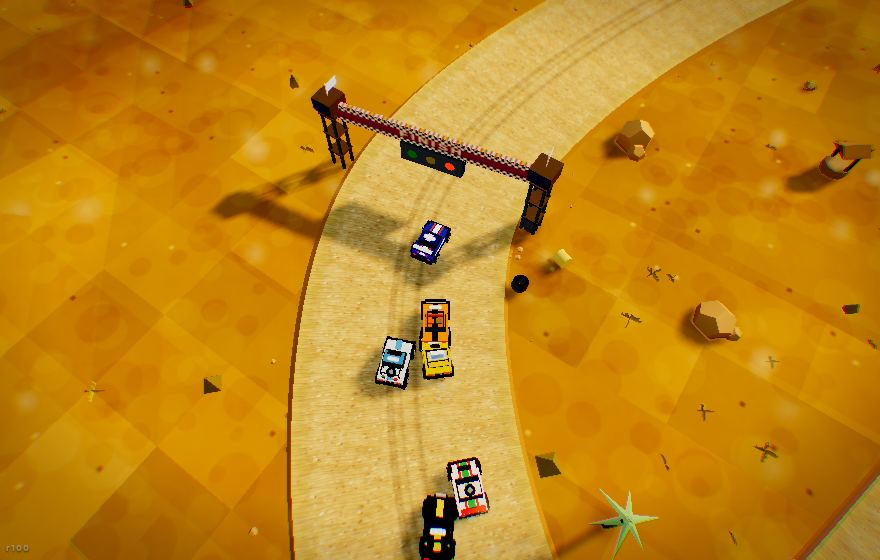
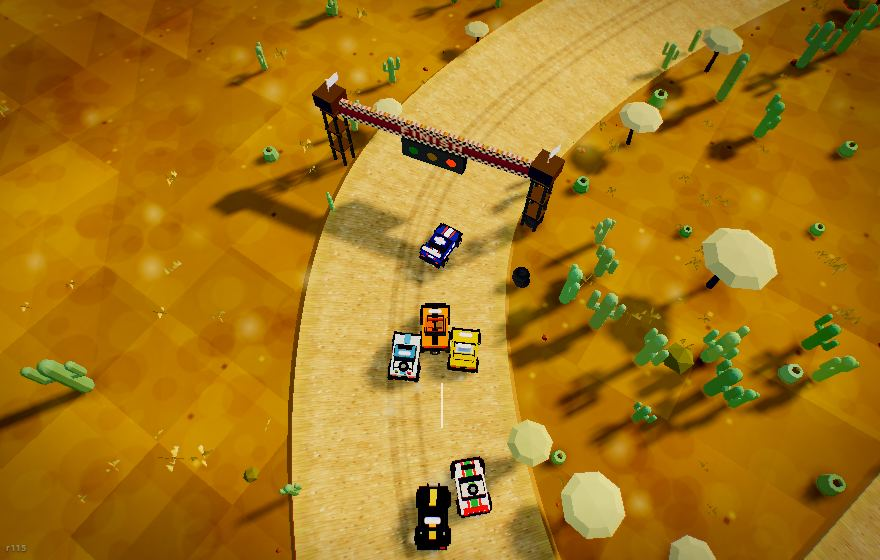
Three of the weakest eight: Safari, Deepwood and the Dune Serpent
SAFARI PLAINS shared the `dunes` theme with THE DUNE SERPENT - not a similar
theme, the SAME one - which is why a frame-similarity audit found them closer
to each other than any other pair on the roster. Its layout was never the
problem; a C wrapped round a bay is a good shape. It had no ground of its
own. It has one now: bleached savanna grass instead of dune sand, flat-crowned
acacias instead of palms, rust-red termite mounds instead of pale desert
stone, and a green horizon rather than a dune sea. The cactus builder already
carried the acacia - it only ever needed to be asked for it.

DEEPWOOD TRAIL was called "1500 trees and no wood", and the number said why:
the tree belt began at 12.5 u, a clear three units off the verge, so the lap
drove through open ground with a forest standing beside it. The belt now
starts at 10.4 - trunks at the road edge - and ends at 52 instead of 95, so
the same count is concentrated into the band you actually drive through.

THE DUNE SERPENT was a flat ribbon on flat sand with 61 u of longest straight
and nothing to read ahead. Elevation amplitude 12 -> 17 puts the lap over the
dune tops with the sand falling away either side: a silhouette, a horizon,
and blind brows to judge.

newworlds, nature, carriageway and static suites pass. test-climb reports two
failures - the same two, and the same count, on the pre-change tree, so they
are pre-existing and not from the dune amplitude.
[…]

diff --git a/src/track.js b/src/track.js
@@ -65,7 +65,7 @@ export const LEVELS = [
   { id: 25, name: 'PIKES PEAK', theme: 'alpine', route: 'pikes', region: 'WORLD RALLY',
     // the tallest climb on the roster, and nothing but the climb
     tune: { elev: { amp: 27, ph: [1.7, 0.3, 2.8] }, rampCount: 0 } },
-  { id: 26, name: 'SAFARI PLAINS', theme: 'dunes', route: 'safari', region: 'WORLD RALLY',
+  { id: 26, name: 'SAFARI PLAINS', theme: 'savanna', route: 'safari', region: 'WORLD RALLY',
     tune: { elev: { amp: 4, ph: [0.9, 2.6, 1.2] }, rampCount: 5 } },
   { id: 27, name: 'CORNICHE', theme: 'canyon', route: 'corniche', region: 'WORLD RALLY',
     tune: { elev: { amp: 7, ph: [2.9, 1.1, 0.5] }, rampCount: 0 } },
@@ -1462,7 +1462,11 @@ const THEMES = {
     hutRoof: 0xc09a5c, hayColor: 0xd8b95e, hutCount: 3, hayCount: 8,
     splinter: [0xe8c87a, 0xb8905a],
     weather: { type: 'sand', color: 0xe0c080 },
-    elev: { amp: 12, ph: [0.6, 2.9, 1.8] },             // serpent-back rollers
+    // ON THE CRESTS. The road was a flat ribbon on flat sand: 61 u of
+    // longest straight and nothing to read ahead. A bigger amplitude puts
+    // the lap over the dune tops with the sand falling away either side,
+    // which gives it a silhouette, a horizon and blind brows to judge.
+    elev: { amp: 17, ph: [0.9, 1.9, 2.7] },             // serpent-back rollers
     rampMaxCurv: 0.012, padMaxCurv: 0.005, boardMaxCurv: 0.012,
     geysers: { count: 6 },                              // hazard spec (lead implements)
   },
@@ -2327,7 +2331,12 @@ const THEMES = {
     foliageLow: 0x24522c, foliageTop: 0x36703c,
     foliage: { h: 0.32, hVar: 0.05, s: 0.5, sVar: 0.14, l: 0.24, lVar: 0.1 },
     treeSnowCap: false,
-    treeBelt: [12.5, 95],                               // trees to the verge, DEEP
+    // THE CANOPY MUST CLOSE. At 12.5 u the stands began a clear three units
+    // off the verge and the lap drove through open ground with a forest
+    // beside it - an audit called it '1500 trees and no wood'. Starting at
+    // 10.4 puts the trunks at the road edge, and pulling the belt in to 52
+    // concentrates the same count into the band you actually drive through.
+    treeBelt: [10.4, 52],
     tuftCount: 700, grass: { bladeA: '#3e6a34', bladeB: '#6a9a4c' },
     bushCount: 260, bushColor: 0x2c5c2c,
     bush: { h: 0.34, hVar: 0.05, s: 0.42, sVar: 0.1, l: 0.24, lVar: 0.1 },
@@ -3015,6 +3024,32 @@ THEMES.mountainsea = {
   coast: { a: [255, -580], b: [285, 580], level: -11, beach: 14 },
   massif: { az: 3.14, spread: 1.9, count: 8, r0: 430, r1: 700,
     h0: 110, h1: 200, w0: 200, w1: 340 },
+};
+
+
+/** SAFARI PLAINS gets its OWN place.
+ *
+ *  It shared the `dunes` theme with THE DUNE SERPENT - not a similar theme,
+ *  the SAME one - which is why an audit measuring frame similarity found them
+ *  closer to each other than any other pair on the roster. The layout was
+ *  never the problem: a C wrapped round a bay is a good shape. It had no
+ *  ground of its own.
+ *
+ *  So: bleached savanna grass instead of dune sand, flat-crowned acacias
+ *  instead of palms, rust-red termite mounds instead of pale desert stone, and
+ *  a green horizon rather than a dune sea. The cactus builder already carries
+ *  the acacia; it only ever needed to be asked for it.
+ */
+THEMES.savanna = {
+  ...THEMES.dunes,
+  terrainLow: '#b8a05a', terrainHigh: '#e0cf8a', terrainDirt: '#a8834a',
+  hillColor: 0xa8a05e, peakColor: 0xcabf80, horizon: undefined,
+  skyTop: '#6fa8d8', skyHorizon: '#f0e2b0',
+  vegetation: 'cactus', treeCount: 150, trunkColor: 0x6a5138,
+  tuftCount: 900, grass: { bladeA: '#c9b45e', bladeB: '#e8dca0' },
+  bushCount: 120, bushColor: 0x8a8a4a,
+  rockCount: 90, pebbleCount: 160, rockColor: 0xa8603a,
+  hutCount: 4, hayCount: 0,
 };
 
 /** Free every geometry, material and texture under `root`, then empty it.

diff --git a/index.html b/index.html
@@ -835,7 +835,7 @@
 </div>
 <div id="damage-vignette"></div>
 <div id="polish-vignette"></div>
-<div id="build-tag">r114</div>
+<div id="build-tag">r115</div>
 <div id="fade"></div>
 
 <div id="touch-ui">
@@ -1048,10 +1048,10 @@
   // its URL + anon key here. Leave empty to keep sync codes only.
   window.IGNITE_SYNC = { url: '', key: '' };
 </script>
-<script type="module" src="./src/main.js?v=r114"></script>
+<script type="module" src="./src/main.js?v=r115"></script>
 <!-- offline arming: registers sw.js and drives the flight badge -->
-<script src="./src/offline.js?v=r114"></script>
+<script src="./src/offline.js?v=r115"></script>
 <!-- rural traffic: self-attaching, polls window.__game (no engine hooks) -->
-<script type="module" src="./src/traffic.js?v=r114"></script>
+<script type="module" src="./src/traffic.js?v=r115"></script>
 </body>
 </html>

diff --git a/sw.js b/sw.js
@@ -16,7 +16,7 @@
  * CACHE is bumped by the release version. Bump it whenever ?v= in index.html
  * is bumped, or phones will keep serving the previous build forever.
  */
-const CACHE = 'ignite-rally-r114';
+const CACHE = 'ignite-rally-r115';
 
 // ---- CORE vs EXTRA ---------------------------------------------------------
 // CORE is everything the game needs to RUN with the radio off: the shell, the
